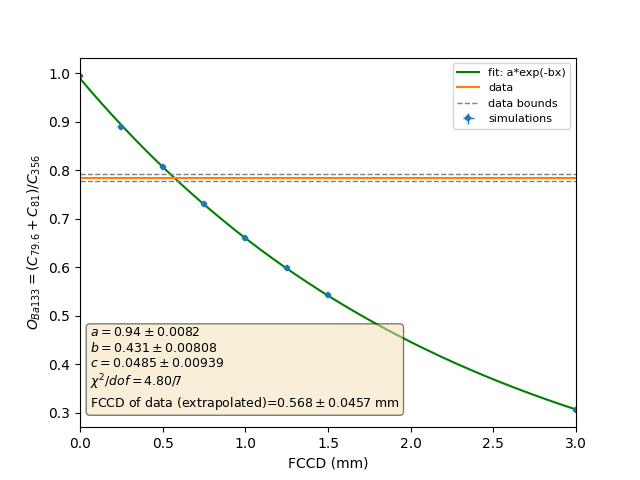
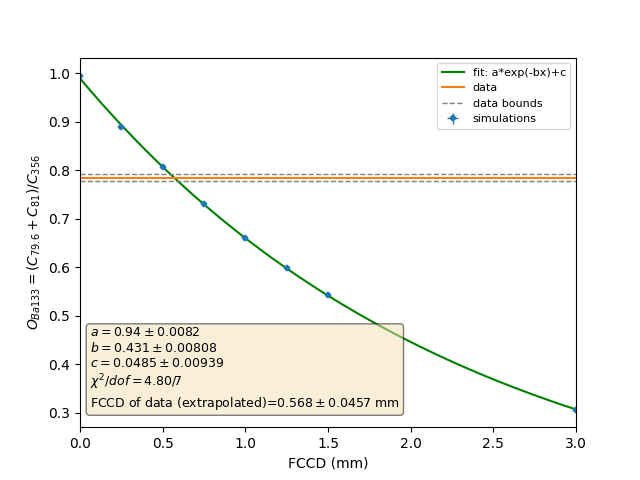
fixed typos in legends

Changed region(s): [[0.6875, 0.125, 0.875, 0.2812]]

diff --git a/Ba133_analysis/simulations/IC-legend/macro/ba_top/PostProc/drawPostProcessed_FCCD.py b/Ba133_analysis/simulations/IC-legend/macro/ba_top/PostProc/drawPostProcessed_FCCD.py
@@ -150,7 +150,8 @@ def main():
     bins_data = bins = np.arange(0, 450, binwidth)
     fig, ax = plt.subplots()
     counts_data, bins_cal_data, bars_data = plt.hist(calibrated_energy_data, bins=bins_data, label = "data", histtype = 'step', linewidth = '0.35')
-    counts, bins, bars = plt.hist(energies, bins = bins, label = "MC: No FCCD", histtype = 'step', linewidth = '0.35')
+    #counts, bins, bars = plt.hist(energies, bins = bins, label = "MC: No FCCD", histtype = 'step', linewidth = '0.35')
+    counts, bins, bars = plt.hist(energies, bins = bins, label = "MC: FCCD 0.568mm", histtype = 'step', linewidth = '0.35')
     plt.xlabel("Energy [keV]")
     plt.ylabel("Counts")
     plt.xlim(0, 450)
@@ -169,7 +170,8 @@ def main():
 
     fig, ax = plt.subplots()
     counts_data, bins_cal_data, bars_data = plt.hist(calibrated_energy_data, bins=bins_data, weights=R_simdata_356*np.ones_like(calibrated_energy_data),  label = "data (scaled)", histtype = 'step', linewidth = '0.35')
-    counts, bins, bars = plt.hist(energies, bins = bins, label = "MC: No FCCD", histtype = 'step', linewidth = '0.35')
+    #counts, bins, bars = plt.hist(energies, bins = bins, label = "MC: No FCCD", histtype = 'step', linewidth = '0.35')
+    counts, bins, bars = plt.hist(energies, bins = bins, label = "MC:FCCD 0.568mm", histtype = 'step', linewidth = '0.35')
     plt.xlabel("Energy [keV]")
     plt.ylabel("Counts")
     plt.xlim(0, 450)

diff --git a/Ba133_analysis/simulations/IC-legend/macro/ba_top/PostProc/calculate_FCCD.py b/Ba133_analysis/simulations/IC-legend/macro/ba_top/PostProc/calculate_FCCD.py
@@ -80,7 +80,7 @@ def main():
     plt.errorbar(xdata, ydata, xerr=0, yerr =yerr, label = "simulations", elinewidth = 1, fmt='x', ms = 3.0, mew = 3.0)
     xfit = np.linspace(min(xdata), max(xdata), 1000)
     yfit = exponential_decay(xfit,*popt)
-    plt.plot(xfit, yfit, "g", label = "fit: a*exp(-bx)") 
+    plt.plot(xfit, yfit, "g", label = "fit: a*exp(-bx)+c") 
 
     #calculate FCCD of data - invert eq
     FCCD_data = (1/b)*np.log(a/(O_Ba133_data-c))
